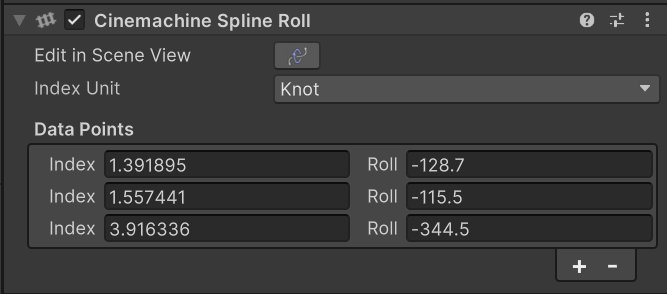
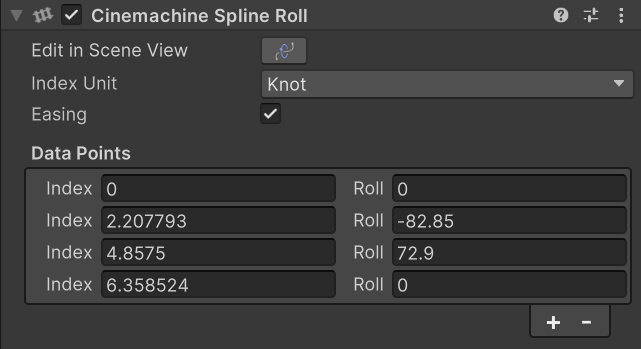
Add Easing to CinemachineSplineRoll

Changed region(s): [[0.0, 0.0, 1.0, 1.0]]

diff --git a/com.unity.cinemachine/Runtime/Behaviours/CinemachineSplineRoll.cs b/com.unity.cinemachine/Runtime/Behaviours/CinemachineSplineRoll.cs
@@ -42,11 +42,36 @@ namespace Unity.Cinemachine
             public static implicit operator RollData(float roll) => new () { Value = roll };
         }
 
-        /// <summary>Interpolator for the RollData</summary>
+        /// <summary>
+        /// When enabled, roll eases into and out of the data point values
+        /// </summary>
+        [Tooltip("When enabled, roll eases into and out of the data point values.")]
+        public bool Easing = true;
+
+        /// <summary>
+        /// Get the appropriate interpolator for the RollData, depending on the Easing setting
+        /// </summary>
+        /// <returns>The appropriate interpolator for the RollData, depending on the Easing setting.</returns>
+        public IInterpolator<RollData> GetInterpolator() => Easing ? new LerpRollDataWithEasing() : new LerpRollData();
+
+        /// <summary>Interpolator for the RollData, with no easing between data points.</summary>
         public struct LerpRollData : IInterpolator<RollData>
         {
             /// <inheritdoc/>
             public RollData Interpolate(RollData a, RollData b, float t) => new() { Value = Mathf.Lerp(a.Value, b.Value, t) };
+        }
+
+        /// <summary>Interpolator for the RollData, with easing between data points</summary>
+        public struct LerpRollDataWithEasing : IInterpolator<RollData>
+        {
+            /// <inheritdoc/>
+            public RollData Interpolate(RollData a, RollData b, float t) 
+            {
+                var t2 = t * t;
+                var d = 1f - t;
+                t = 3f * d * t2 + t * t2;
+                return new() { Value = Mathf.Lerp(a.Value, b.Value, t) };
+            }
         }
 
         /// <summary>
@@ -78,6 +103,12 @@ namespace Unity.Cinemachine
             }
         }
 #endif
+        void Reset()
+        {
+            Roll.Clear();
+            Easing = true;
+        }
+
         void OnEnable() {} // Needed so we can disable it in the editor
 
         /// <summary>Cache for clients that use CinemachineSplineRoll</summary>

diff --git a/com.unity.cinemachine/Editor/Editors/CinemachineSplineRollEditor.cs b/com.unity.cinemachine/Editor/Editors/CinemachineSplineRollEditor.cs
@@ -37,6 +37,7 @@ namespace Unity.Cinemachine.Editor
 
             var rollProp = serializedObject.FindProperty(() => splineData.Roll);
             ux.Add(SplineDataInspectorUtility.CreatePathUnitField(rollProp, () => splineData == null ? null : splineData.SplineContainer));
+            ux.Add(new PropertyField(serializedObject.FindProperty(() => splineData.Easing)));
 
             ux.AddHeader("Data Points");
             var list = ux.AddChild(SplineDataInspectorUtility.CreateDataListField(splineData.Roll, rollProp, () => splineData?.SplineContainer));

diff --git a/com.unity.cinemachine/Runtime/Core/SplineContainerExtensions.cs b/com.unity.cinemachine/Runtime/Core/SplineContainerExtensions.cs
@@ -64,8 +64,7 @@ namespace Unity.Cinemachine
             // Apply extra roll
             if (roll != null && roll.enabled)
             {
-                float rollValue = roll.Roll.Evaluate(spline, tNormalized, 
-                    PathIndexUnit.Normalized, new CinemachineSplineRoll.LerpRollData());
+                float rollValue = roll.Roll.Evaluate(spline, tNormalized, PathIndexUnit.Normalized, roll.GetInterpolator());
                 rotation = Quaternion.AngleAxis(-rollValue, fwd) * rotation;
             }
             return true;

diff --git a/com.unity.cinemachine/Documentation~/CinemachineSplineRoll.md b/com.unity.cinemachine/Documentation~/CinemachineSplineRoll.md
@@ -11,6 +11,7 @@ If you add this behavior to the Spline itself, then any [Cinemachine Camera](Cin
 | Property | Field | Description |
 | --- | --- | --- |
 | __Index Unit__ |  | Defines how to interpret the _Index_ field for each data point.  _Knot_ is the recommended value because it remains robust if the spline points change. |
+| __Easing__ |  | When enabled, roll value will ease in and out of the data point values.  Otherwise, interpolation is linear. |
 | __Data Points__ |  | The list of Roll points on the spline.  At these postions on the spline, it will take on the specified roll value. |
 | | _Index_ | The position on the Spline where it should assume the specified roll.  The value is interpreted according to the _Index Unit_ setting. |
 | | _Roll_ | The roll value for the spline.  This is specified in degrees, and the axis of rotation is the spline tangent at that point. |

diff --git a/com.unity.cinemachine/CHANGELOG.md b/com.unity.cinemachine/CHANGELOG.md
@@ -8,6 +8,7 @@ and this project adheres to [Semantic Versioning](http://semver.org/spec/v2.0.0.
 
 ### Added
 - Added CinemachineVirtualCameraBaseEditor, to make it easier to make conformant inspectors for custom virtual cameras and virtual camera managers.
+- Added Easing option to CinemachineSplineRoll.
 
 
 ## [3.1.1] - 2024-06-15
